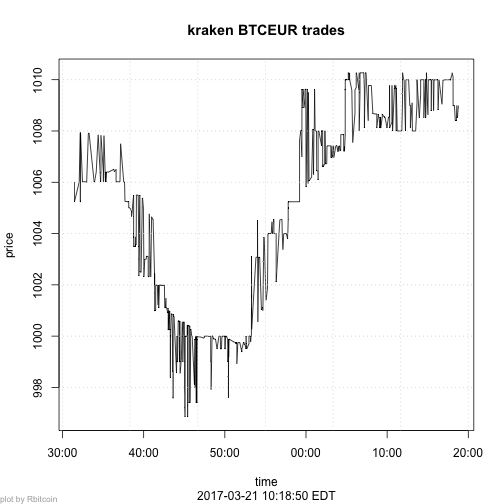
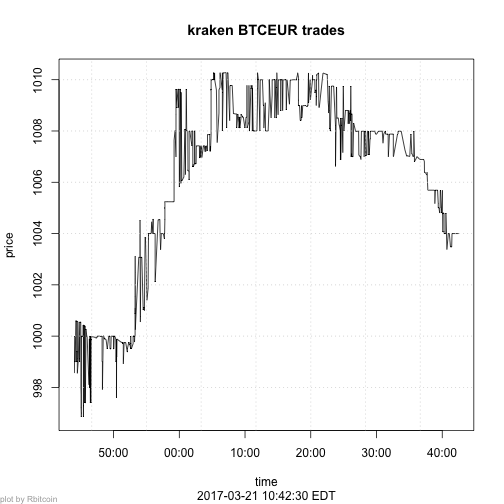
fgfc

diff --git a/MFin_2017/Lecture1.html b/MFin_2017/Lecture1.html
@@ -20,7 +20,7 @@ class: center, middle, inverse, title-slide
 
 ## Buy or Sell?
 
-&lt;img src="../figures/buysell.png" width="550px" style="display: block; margin: auto;" /&gt;
+&lt;img src="figures/buysell.png" width="550px" style="display: block; margin: auto;" /&gt;
 
 ---
 
@@ -472,24 +472,24 @@ We will cover some of the following:
 ```
 
 ```
-##    market base quote           timestamp market_timestamp    last     vwap
-## 1: kraken  BTC   EUR 2017-03-21 10:18:47             &lt;NA&gt; 1008.99 977.7979
-##      volume     ask      bid
-## 1: 15184.55 1008.99 1008.643
+##    market base quote           timestamp market_timestamp last    vwap
+## 1: kraken  BTC   EUR 2017-03-21 10:42:28             &lt;NA&gt; 1004 978.417
+##      volume  ask     bid
+## 1: 15186.52 1004 1003.61
 ```
 
 ```
-##                    date    price     amount                 tid type
-##  1: 2017-03-21 14:18:17 1008.990 0.09060000                  NA  bid
-##  2: 2017-03-21 14:18:23 1008.410 0.08040000                  NA  ask
-##  3: 2017-03-21 14:18:25 1008.410 0.02680000                  NA  ask
-##  4: 2017-03-21 14:18:26 1008.411 0.02680000                  NA  ask
-##  5: 2017-03-21 14:18:31 1008.411 0.02695705                  NA  ask
-##  6: 2017-03-21 14:18:32 1008.412 0.19830000                  NA  bid
-##  7: 2017-03-21 14:18:35 1008.989 0.03808824                  NA  bid
-##  8: 2017-03-21 14:18:38 1008.524 0.08040000                  NA  ask
-##  9: 2017-03-21 14:18:39 1008.524 0.02680000                  NA  ask
-## 10: 2017-03-21 14:18:46 1008.990 1.50000000 1490105926884304404  bid
+##                    date price     amount                 tid type
+##  1: 2017-03-21 14:41:38  1004 0.31220000                  NA  bid
+##  2: 2017-03-21 14:41:42  1004 0.03082330                  NA  bid
+##  3: 2017-03-21 14:42:08  1004 0.45123139                  NA  bid
+##  4: 2017-03-21 14:42:11  1004 0.14420000                  NA  bid
+##  5: 2017-03-21 14:42:17  1004 0.06643658                  NA  bid
+##  6: 2017-03-21 14:42:23  1004 0.49800796                  NA  bid
+##  7: 2017-03-21 14:42:24  1004 0.19000000                  NA  bid
+##  8: 2017-03-21 14:42:24  1004 0.41334661                  NA  bid
+##  9: 2017-03-21 14:42:26  1004 0.29003111                  NA  bid
+## 10: 2017-03-21 14:42:27  1004 0.01444084 1490107347617544367  bid
 ```
 
 ---

diff --git a/MFin_2017/libs/remark-css-0.0.1/example.css b/MFin_2017/libs/remark-css-0.0.1/example.css
@@ -1,0 +1,64 @@
+@import url(https://fonts.googleapis.com/css?family=Yanone+Kaffeesatz);
+@import url(https://fonts.googleapis.com/css?family=Droid+Serif:400,700,400italic);
+@import url(https://fonts.googleapis.com/css?family=Source+Code+Pro:400,700);
+
+body { font-family: 'Droid Serif', 'Palatino Linotype', 'Book Antiqua', Palatino, 'Microsoft YaHei', 'Songti SC', serif; }
+h1, h2, h3 {
+  font-family: 'Yanone Kaffeesatz';
+  font-weight: normal;
+}
+a, a > code {
+  color: rgb(249, 38, 114);
+  text-decoration: none;
+}
+.footnote {
+  position: absolute;
+  bottom: 3em;
+  padding-right: 4em;
+  font-size: 90%;
+}
+.remark-code, .remark-inline-code { font-family: 'Source Code Pro', 'Lucida Console', Monaco, monospace; }
+.remark-code-line-highlighted     { background-color: #ffff88; }
+
+.inverse {
+  background-color: #272822;
+  color: #d6d6d6;
+  text-shadow: 0 0 20px #333;
+}
+.inverse h1, .inverse h2, .inverse h3 {
+  color: #f3f3f3;
+  line-height: 1.0em;
+}
+/* Two-column layout */
+.left-column {
+  color: #777;
+  width: 20%;
+  height: 92%;
+  float: left;
+}
+.left-column h2:last-of-type, .left-column h3:last-child {
+  color: #000;
+}
+.right-column {
+  width: 75%;
+  float: right;
+  padding-top: 1em;
+}
+.pull-left {
+  float: left;
+  width: 47%;
+}
+.pull-right {
+  float: right;
+  width: 47%;
+}
+.pull-right ~ * {
+  clear: both;
+}
+img {
+  max-width: 100%;
+}
+blockquote {
+  border-left: solid 5px lightgray;
+  padding-left: 1em;
+}
